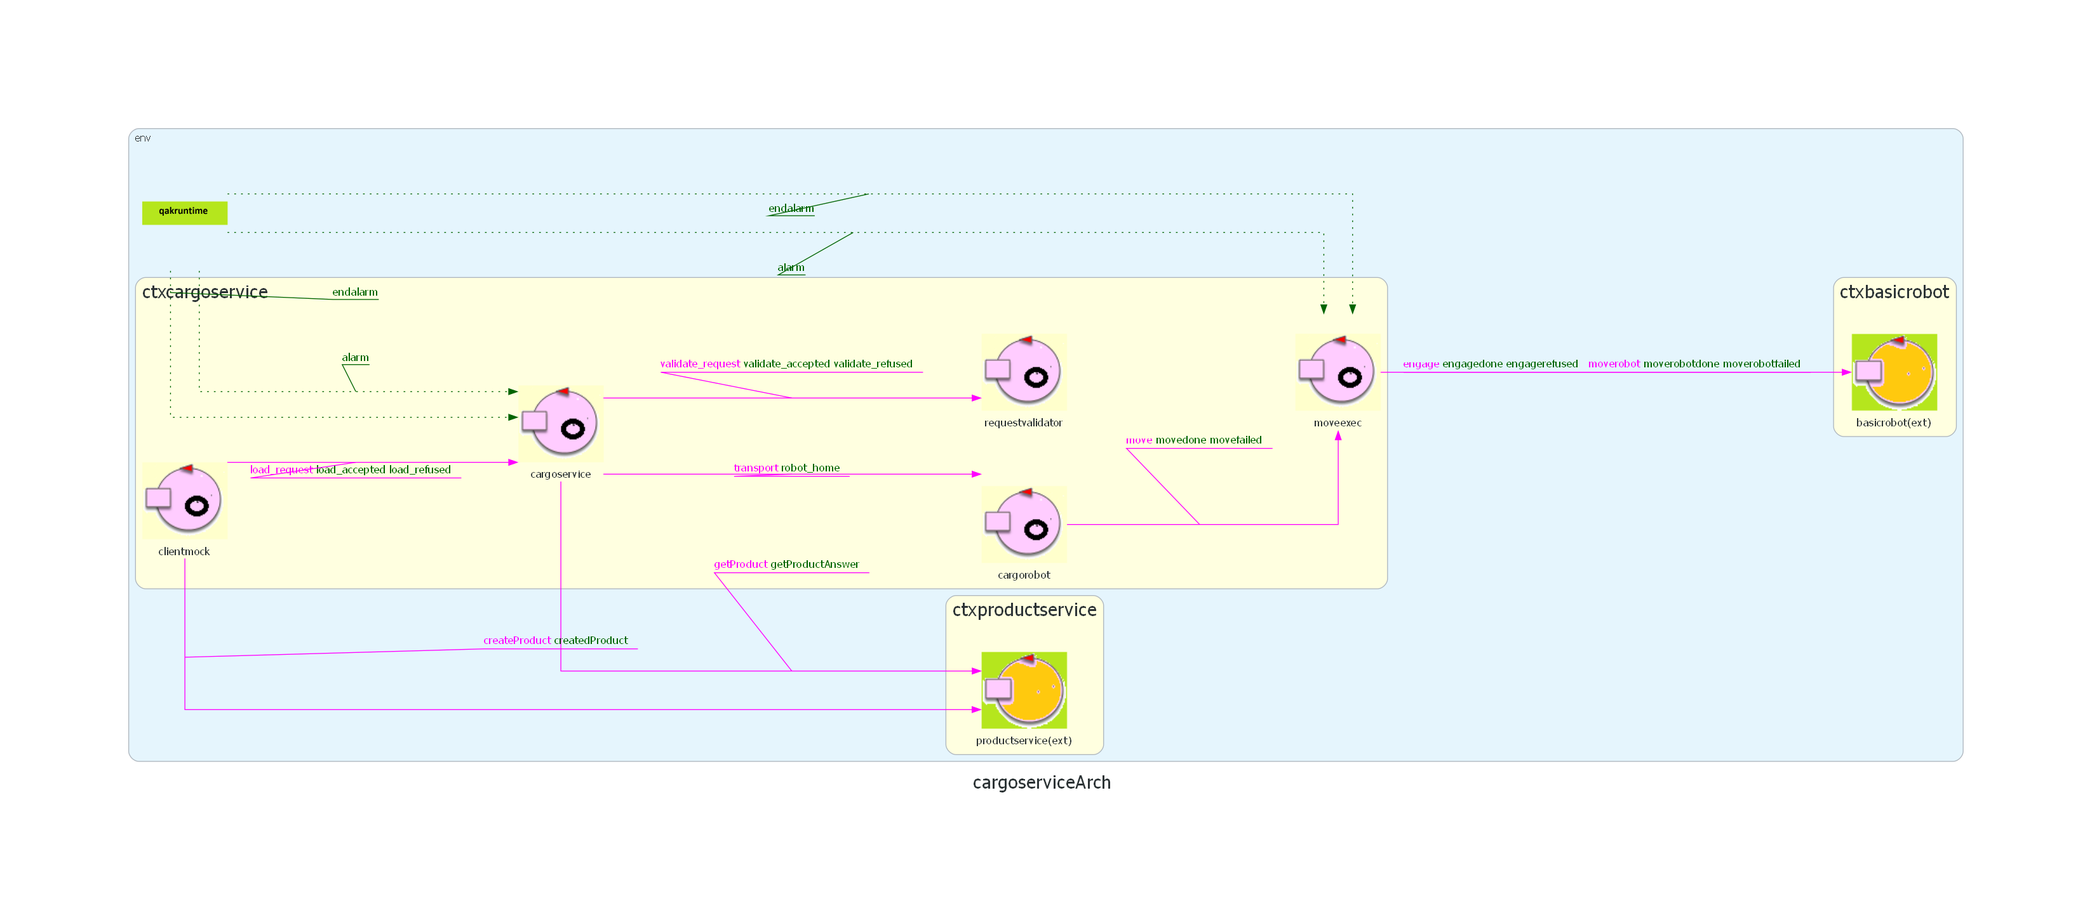
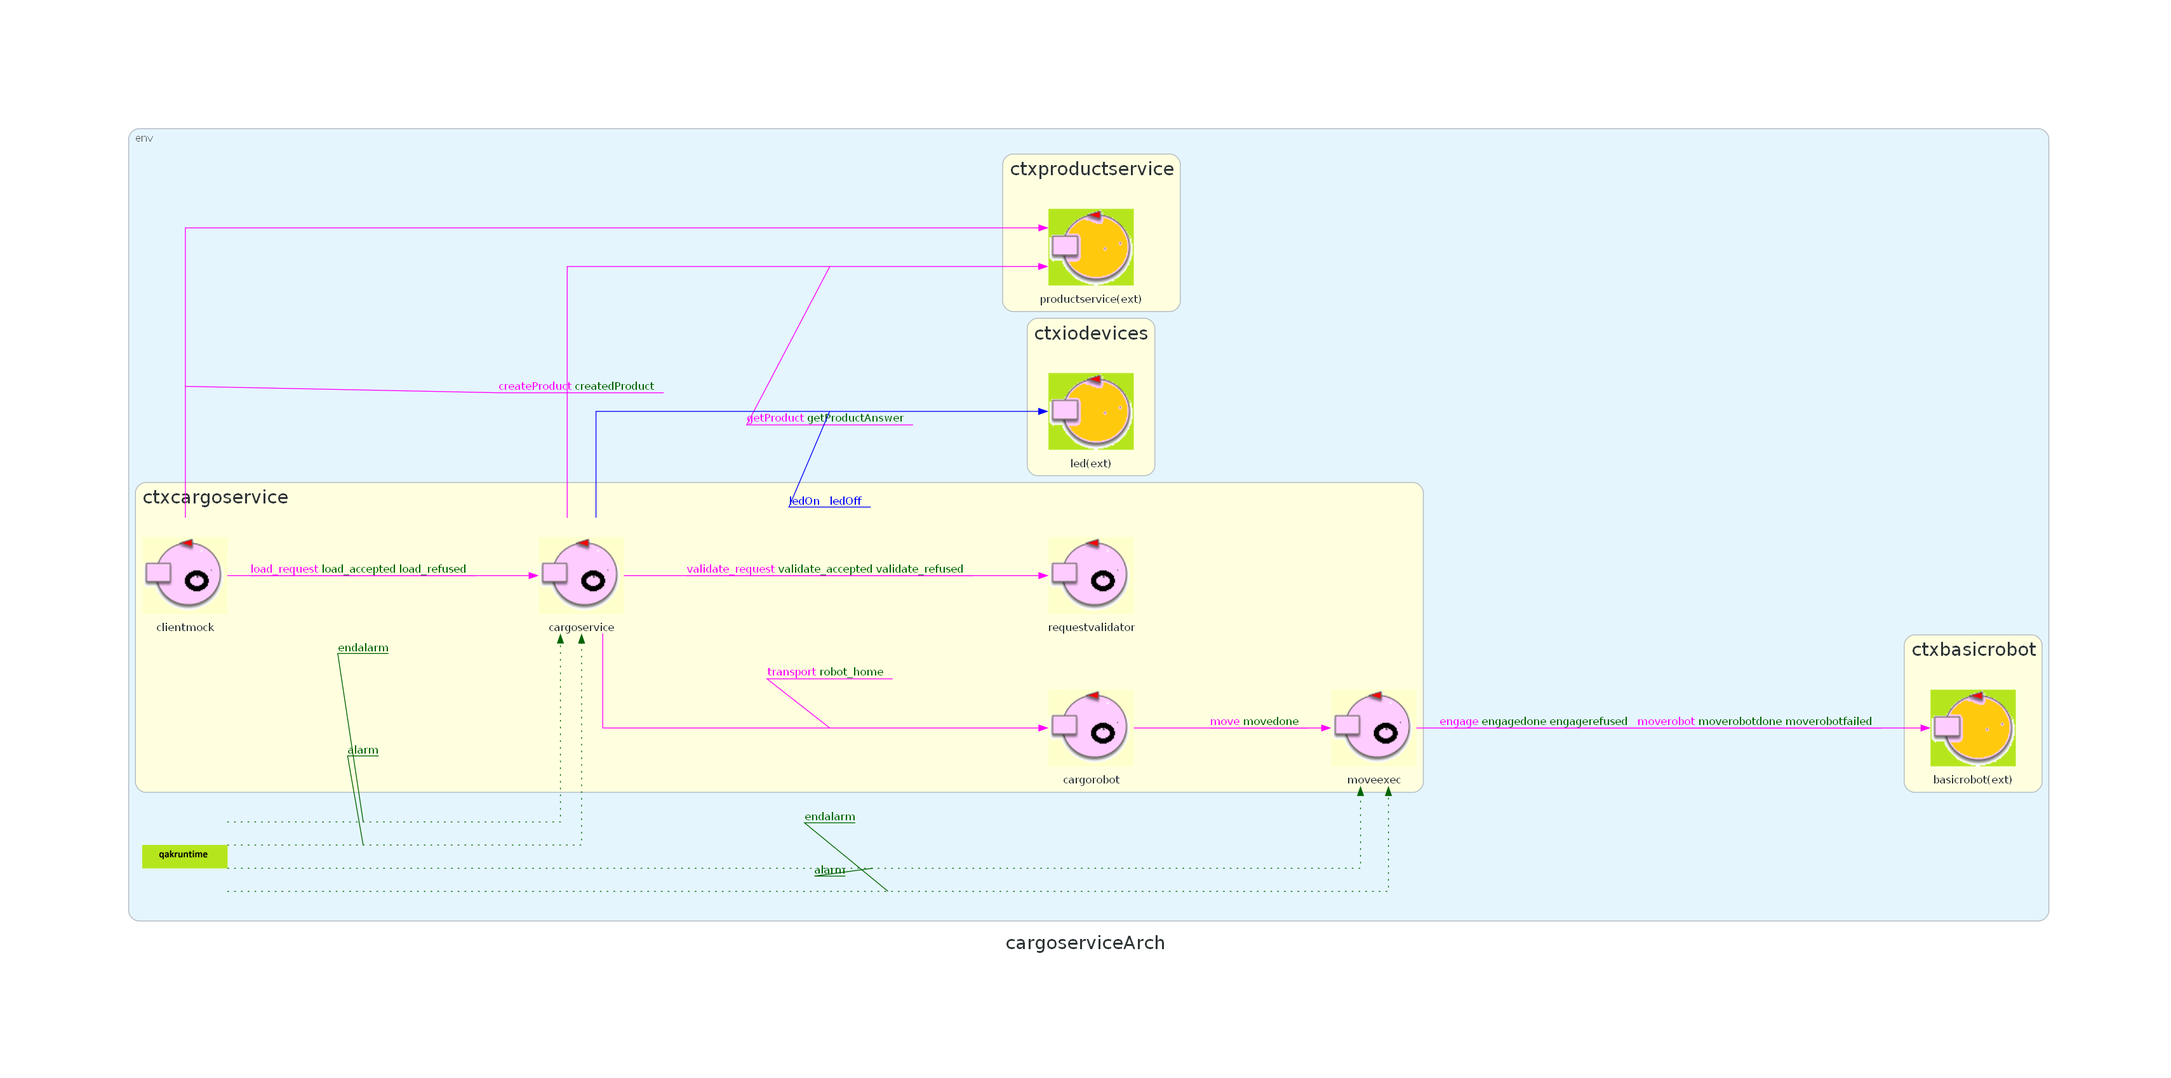
Aggiustato codice

diff --git a/sprint2/project/cargoservice/src/it/unibo/moveexec/Moveexec.kt b/sprint2/project/cargoservice/src/it/unibo/moveexec/Moveexec.kt
@@ -44,8 +44,8 @@ class Moveexec ( name: String, scope: CoroutineScope, isconfined: Boolean=false,
 					//After Lenzi Aug2002
 					sysaction { //it:State
 					}	 	 
-					 transition(edgeName="t036",targetState="waitRequest",cond=whenReply("engagedone"))
-					transition(edgeName="t037",targetState="engageerror",cond=whenReply("engagerefused"))
+					 transition(edgeName="t033",targetState="waitRequest",cond=whenReply("engagedone"))
+					transition(edgeName="t034",targetState="engageerror",cond=whenReply("engagerefused"))
 				}	 
 				state("engageerror") { //this:State
 					action { //it:State
@@ -66,8 +66,8 @@ class Moveexec ( name: String, scope: CoroutineScope, isconfined: Boolean=false,
 					//After Lenzi Aug2002
 					sysaction { //it:State
 					}	 	 
-					 transition(edgeName="t138",targetState="handlealarm",cond=whenEvent("alarm"))
-					transition(edgeName="t139",targetState="work",cond=whenRequest("move"))
+					 transition(edgeName="t135",targetState="handlealarm",cond=whenEvent("alarm"))
+					transition(edgeName="t136",targetState="work",cond=whenRequest("move"))
 				}	 
 				state("work") { //this:State
 					action { //it:State
@@ -84,9 +84,9 @@ class Moveexec ( name: String, scope: CoroutineScope, isconfined: Boolean=false,
 					//After Lenzi Aug2002
 					sysaction { //it:State
 					}	 	 
-					 transition(edgeName="t240",targetState="handlealarm",cond=whenEvent("alarm"))
-					transition(edgeName="t241",targetState="movedone",cond=whenReply("moverobotdone"))
-					transition(edgeName="t242",targetState="movefailed",cond=whenReply("moverobotfailed"))
+					 transition(edgeName="t237",targetState="handlealarm",cond=whenEvent("alarm"))
+					transition(edgeName="t238",targetState="movedone",cond=whenReply("moverobotdone"))
+					transition(edgeName="t239",targetState="movefailed",cond=whenReply("moverobotfailed"))
 				}	 
 				state("movedone") { //this:State
 					action { //it:State
@@ -114,9 +114,9 @@ class Moveexec ( name: String, scope: CoroutineScope, isconfined: Boolean=false,
 					//After Lenzi Aug2002
 					sysaction { //it:State
 					}	 	 
-					 transition(edgeName="t343",targetState="handlealarm",cond=whenEvent("alarm"))
-					transition(edgeName="t344",targetState="movedone",cond=whenReply("moverobotdone"))
-					transition(edgeName="t345",targetState="movefailed",cond=whenReply("moverobotfailed"))
+					 transition(edgeName="t340",targetState="handlealarm",cond=whenEvent("alarm"))
+					transition(edgeName="t341",targetState="movedone",cond=whenReply("moverobotdone"))
+					transition(edgeName="t342",targetState="movefailed",cond=whenReply("moverobotfailed"))
 				}	 
 				state("handlealarm") { //this:State
 					action { //it:State
@@ -126,7 +126,7 @@ class Moveexec ( name: String, scope: CoroutineScope, isconfined: Boolean=false,
 					//After Lenzi Aug2002
 					sysaction { //it:State
 					}	 	 
-					 transition(edgeName="t446",targetState="handleendalarm",cond=whenEvent("endalarm"))
+					 transition(edgeName="t443",targetState="handleendalarm",cond=whenEvent("endalarm"))
 				}	 
 				state("handleendalarm") { //this:State
 					action { //it:State
@@ -136,10 +136,10 @@ class Moveexec ( name: String, scope: CoroutineScope, isconfined: Boolean=false,
 					//After Lenzi Aug2002
 					sysaction { //it:State
 					}	 	 
-					 transition(edgeName="t547",targetState="handlealarm",cond=whenEvent("alarm"))
-					transition(edgeName="t548",targetState="work",cond=whenRequest("move"))
-					transition(edgeName="t549",targetState="movedone",cond=whenReply("moverobotdone"))
-					transition(edgeName="t550",targetState="movefailed",cond=whenReply("moverobotfailed"))
+					 transition(edgeName="t544",targetState="handlealarm",cond=whenEvent("alarm"))
+					transition(edgeName="t545",targetState="work",cond=whenRequest("move"))
+					transition(edgeName="t546",targetState="movedone",cond=whenReply("moverobotdone"))
+					transition(edgeName="t547",targetState="movefailed",cond=whenReply("moverobotfailed"))
 				}	 
 			}
 		}

diff --git a/sprint2/project/sonarled/src/it/unibo/led/Led.kt b/sprint2/project/sonarled/src/it/unibo/led/Led.kt
@@ -1,5 +1,5 @@
 /* Generated by AN DISI Unibo */ 
-package it.unibo.sonardevice
+package it.unibo.led
 
 import it.unibo.kactor.*
 import alice.tuprolog.*
@@ -20,7 +20,7 @@ import org.json.simple.JSONObject
 
 //User imports JAN2024
 
-class Sonardevice ( name: String, scope: CoroutineScope, isconfined: Boolean=false, isdynamic: Boolean=false ) : 
+class Led ( name: String, scope: CoroutineScope, isconfined: Boolean=false, isdynamic: Boolean=false ) : 
           ActorBasicFsm( name, scope, confined=isconfined, dynamically=isdynamic ){
 
 	override fun getInitialState() : String{
@@ -29,51 +29,40 @@ class Sonardevice ( name: String, scope: CoroutineScope, isconfined: Boolean=fal
 	override fun getBody() : (ActorBasicFsm.() -> Unit){
 		//val interruptedStateTransitions = mutableListOf<Transition>()
 		//IF actor.withobj !== null val actor.withobj.name» = actor.withobj.method»ENDIF
-		 
-			lateinit var reader : java.io.BufferedReader
-		    lateinit var p : Process	
-		    var Distance = 0
 		return { //this:ActionBasciFsm
 				state("s0") { //this:State
 					action { //it:State
-						CommUtils.outblack("$name | start")
-						
-									p       = Runtime.getRuntime().exec("python sonar.py")
-									reader  = java.io.BufferedReader(  java.io.InputStreamReader(p.getInputStream() ))	
 						//genTimer( actor, state )
 					}
 					//After Lenzi Aug2002
 					sysaction { //it:State
 					}	 	 
-					 transition( edgeName="goto",targetState="readSonarData", cond=doswitch() )
+					 transition(edgeName="t05",targetState="ledon",cond=whenDispatch("ledOn"))
+					transition(edgeName="t06",targetState="ledoff",cond=whenDispatch("ledOff"))
 				}	 
-				state("readSonarData") { //this:State
+				state("ledon") { //this:State
 					action { //it:State
-						 
-								var data = reader.readLine()
-								//CommUtils.outyellow("$name with python: data = $data"   ) 
-								if( data != null ){
-								try{ 
-									val vd = data.toFloat()
-									val v  = vd.toInt()
-									if( v <= 100 ){	//A first filter ...
-										Distance = v				
-									}else Distance = 0
-								}catch(e: Exception){
-									CommUtils.outred("$name readSonarDataERROR: $e "   )
-								}
-								}//if
-								
-						if(  Distance > 0  
-						 ){CommUtils.outyellow("$name with python: data = $data")
-						forward("sonardata", "distance($Distance)" ,"sonar" ) 
-						}
+						
+									CommUtils.outred("led | rilevata sonar failure")
+						            machineExec("python ledOn.py")
 						//genTimer( actor, state )
 					}
 					//After Lenzi Aug2002
 					sysaction { //it:State
 					}	 	 
-					 transition( edgeName="goto",targetState="readSonarData", cond=doswitch() )
+					 transition( edgeName="goto",targetState="s0", cond=doswitch() )
+				}	 
+				state("ledoff") { //this:State
+					action { //it:State
+						
+									CommUtils.outred("led | sonar failure terminata")
+						            machineExec("python ledOff.py")
+						//genTimer( actor, state )
+					}
+					//After Lenzi Aug2002
+					sysaction { //it:State
+					}	 	 
+					 transition( edgeName="goto",targetState="s0", cond=doswitch() )
 				}	 
 			}
 		}

diff --git a/sprint2/project/sonarled/src/it/unibo/sonar/Sonar.kt b/sprint2/project/sonarled/src/it/unibo/sonar/Sonar.kt
@@ -1,5 +1,5 @@
 /* Generated by AN DISI Unibo */ 
-package it.unibo.sonarled
+package it.unibo.sonar
 
 import it.unibo.kactor.*
 import alice.tuprolog.*
@@ -20,7 +20,7 @@ import org.json.simple.JSONObject
 
 //User imports JAN2024
 
-class Sonarled ( name: String, scope: CoroutineScope, isconfined: Boolean=false, isdynamic: Boolean=false ) : 
+class Sonar ( name: String, scope: CoroutineScope, isconfined: Boolean=false, isdynamic: Boolean=false ) : 
           ActorBasicFsm( name, scope, confined=isconfined, dynamically=isdynamic ){
 
 	override fun getInitialState() : String{
@@ -52,8 +52,7 @@ class Sonarled ( name: String, scope: CoroutineScope, isconfined: Boolean=false,
 								                if(D > DFREE){
 								                    counter++
 								                    if(counter >= 3) {
-								                    	CommUtils.outred("sonarled | rilevata sonar failure")
-								                    	machineExec("python ledOn.py")
+								                    	CommUtils.outred("sonar | rilevata sonar failure")
 								emit("alarm", "alarm(failure)" ) 
 								forward("sonar_failure", "sonar_failure(ok)" ,name ) 
 								
@@ -63,7 +62,7 @@ class Sonarled ( name: String, scope: CoroutineScope, isconfined: Boolean=false,
 								                    {
 								                    	counterIO++
 								                    	if(counterIO == 3) {
-									                    	CommUtils.outgreen("sonarled | rilevata presenza di un container all'IOPort")
+									                    	CommUtils.outgreen("sonar | rilevata presenza di un container all'IOPort")
 								forward("containerAtIOPort", "containerAtIOPort(ok)" ,"cargoservice" ) 
 								
 								                    	}
@@ -88,8 +87,7 @@ class Sonarled ( name: String, scope: CoroutineScope, isconfined: Boolean=false,
 								
 								                val D = payloadArg(0).toInt()
 								                if(D <= DFREE){
-								                	CommUtils.outred("sonarled | sonar failure terminata")
-								                	machineExec("python ledOff.py")
+								                	CommUtils.outred("sonar | sonar failure terminata")
 								                	counter = 0
 								                	
 								                	if(D < DFREE/2) {

diff --git a/sprint2/project/cargoservice/src/it/unibo/cargoservice/Cargoservice.kt b/sprint2/project/cargoservice/src/it/unibo/cargoservice/Cargoservice.kt
@@ -164,6 +164,7 @@ class Cargoservice ( name: String, scope: CoroutineScope, isconfined: Boolean=fa
 				}	 
 				state("handlealarm_load_request") { //this:State
 					action { //it:State
+						forward("ledOn", "ledOn(ok)" ,"led" ) 
 						CommUtils.outred("cargoservice | servizio interrotto")
 						//genTimer( actor, state )
 					}
@@ -174,6 +175,7 @@ class Cargoservice ( name: String, scope: CoroutineScope, isconfined: Boolean=fa
 				}	 
 				state("handleendalarm_load_request") { //this:State
 					action { //it:State
+						forward("ledOff", "ledOff(ok)" ,"led" ) 
 						CommUtils.outgreen("cargoservice | servizio ripristinato")
 						//genTimer( actor, state )
 					}
@@ -185,6 +187,7 @@ class Cargoservice ( name: String, scope: CoroutineScope, isconfined: Boolean=fa
 				}	 
 				state("handlealarm") { //this:State
 					action { //it:State
+						forward("ledOn", "ledOn(ok)" ,"led" ) 
 						CommUtils.outred("cargoservice | servizio interrotto")
 						//genTimer( actor, state )
 					}
@@ -195,6 +198,7 @@ class Cargoservice ( name: String, scope: CoroutineScope, isconfined: Boolean=fa
 				}	 
 				state("handleendalarm") { //this:State
 					action { //it:State
+						forward("ledOff", "ledOff(ok)" ,"led" ) 
 						CommUtils.outgreen("cargoservice | servizio ripristinato")
 						//genTimer( actor, state )
 					}
@@ -210,6 +214,7 @@ class Cargoservice ( name: String, scope: CoroutineScope, isconfined: Boolean=fa
 				}	 
 				state("handlealarm_ioport") { //this:State
 					action { //it:State
+						forward("ledOn", "ledOn(ok)" ,"led" ) 
 						CommUtils.outred("cargoservice | servizio interrotto")
 						//genTimer( actor, state )
 					}
@@ -220,6 +225,7 @@ class Cargoservice ( name: String, scope: CoroutineScope, isconfined: Boolean=fa
 				}	 
 				state("handleendalarm_ioport") { //this:State
 					action { //it:State
+						forward("ledOff", "ledOff(ok)" ,"led" ) 
 						CommUtils.outgreen("cargoservice | servizio ripristinato")
 						//genTimer( actor, state )
 					}

diff --git a/sprint2/project/cargoservice/src/it/unibo/cargorobot/Cargorobot.kt b/sprint2/project/cargoservice/src/it/unibo/cargorobot/Cargorobot.kt
@@ -76,7 +76,6 @@ class Cargorobot ( name: String, scope: CoroutineScope, isconfined: Boolean=fals
 					sysaction { //it:State
 					}	 	 
 					 transition(edgeName="t130",targetState="go_slot",cond=whenReply("movedone"))
-					transition(edgeName="t131",targetState="go_ioport",cond=whenReply("movefailed"))
 				}	 
 				state("go_slot") { //this:State
 					action { //it:State
@@ -92,8 +91,7 @@ class Cargorobot ( name: String, scope: CoroutineScope, isconfined: Boolean=fals
 					//After Lenzi Aug2002
 					sysaction { //it:State
 					}	 	 
-					 transition(edgeName="t232",targetState="go_home",cond=whenReply("movedone"))
-					transition(edgeName="t233",targetState="go_slot",cond=whenReply("movefailed"))
+					 transition(edgeName="t231",targetState="go_home",cond=whenReply("movedone"))
 				}	 
 				state("go_home") { //this:State
 					action { //it:State
@@ -109,8 +107,7 @@ class Cargorobot ( name: String, scope: CoroutineScope, isconfined: Boolean=fals
 					//After Lenzi Aug2002
 					sysaction { //it:State
 					}	 	 
-					 transition(edgeName="t334",targetState="robotAtHome",cond=whenReply("movedone"))
-					transition(edgeName="t335",targetState="go_home",cond=whenReply("movefailed"))
+					 transition(edgeName="t332",targetState="robotAtHome",cond=whenReply("movedone"))
 				}	 
 				state("robotAtHome") { //this:State
 					action { //it:State

diff --git a/sprint2/docs/html/Sprint2_v1.html b/sprint2/docs/html/Sprint2_v1.html
@@ -116,7 +116,7 @@
                 Abbiamo scelto il secondo approccio, introducendo l’attore <strong>moveexec</strong>.
                 Questo ci consente di mantenere cargorobot focalizzato sulla gestione del processo di carico,
                 realizzando la logica di movimento e la gestione delle situazioni di errore all'interno di un componente
-                dedicato. In questo modo è possibile offrire maggiore chiarezza, manutenibilità e possibilità di riuso,
+                dedicato. In questo modo è possibile offrire maggiore chiarezza, manutenibilità e estendibilità,
                 a fronte però di una maggiore complessità architetturale.
                 <br>
                 Il compito, quindi, dell'attore cargorobot è quello di ottenere le coordinate relative alla Unload

diff --git a/sprint2/project/cargoservice/src/it/unibo/ctxiodevices/MainCtxiodevices.kt b/sprint2/project/cargoservice/src/it/unibo/ctxiodevices/MainCtxiodevices.kt
@@ -1,0 +1,15 @@
+/* Generated by AN DISI Unibo */ 
+package it.unibo.ctxiodevices
+import it.unibo.kactor.QakContext
+import it.unibo.kactor.sysUtil
+import kotlinx.coroutines.runBlocking
+
+fun main() = runBlocking {
+	//System.setProperty(org.slf4j.impl.SimpleLogger.DEFAULT_LOG_LEVEL_KEY, "ERROR");
+	QakContext.createContexts(
+	        "localhost", this, "cargoservice.pl", "sysRules.pl", "ctxiodevices"
+	)
+	//JAN Facade
+	//JAN24 Display
+}
+

diff --git a/sprint2/project/cargoservice/Arch_cargoservice.py b/sprint2/project/cargoservice/Arch_cargoservice.py
@@ -35,15 +35,18 @@ with Diagram('cargoserviceArch', show=False, outformat='png', graph_attr=graphat
           basicrobot=Custom('basicrobot(ext)','./qakicons/externalQActor.png')
      with Cluster('ctxproductservice', graph_attr=nodeattr):
           productservice=Custom('productservice(ext)','./qakicons/externalQActor.png')
+     with Cluster('ctxiodevices', graph_attr=nodeattr):
+          led=Custom('led(ext)','./qakicons/externalQActor.png')
      sys >> Edge( label='alarm', **evattr, decorate='true', fontcolor='darkgreen') >> cargoservice
      sys >> Edge( label='endalarm', **evattr, decorate='true', fontcolor='darkgreen') >> cargoservice
      sys >> Edge( label='alarm', **evattr, decorate='true', fontcolor='darkgreen') >> moveexec
      sys >> Edge( label='endalarm', **evattr, decorate='true', fontcolor='darkgreen') >> moveexec
      moveexec >> Edge(color='magenta', style='solid', decorate='true', label='<engage<font color="darkgreen"> engagedone engagerefused</font> &nbsp; moverobot<font color="darkgreen"> moverobotdone moverobotfailed</font> &nbsp; >',  fontcolor='magenta') >> basicrobot
-     cargorobot >> Edge(color='magenta', style='solid', decorate='true', label='<move<font color="darkgreen"> movedone movefailed</font> &nbsp; >',  fontcolor='magenta') >> moveexec
+     cargorobot >> Edge(color='magenta', style='solid', decorate='true', label='<move<font color="darkgreen"> movedone</font> &nbsp; >',  fontcolor='magenta') >> moveexec
      cargoservice >> Edge(color='magenta', style='solid', decorate='true', label='<validate_request<font color="darkgreen"> validate_accepted validate_refused</font> &nbsp; >',  fontcolor='magenta') >> requestvalidator
      clientmock >> Edge(color='magenta', style='solid', decorate='true', label='<createProduct<font color="darkgreen"> createdProduct</font> &nbsp; >',  fontcolor='magenta') >> productservice
      clientmock >> Edge(color='magenta', style='solid', decorate='true', label='<load_request<font color="darkgreen"> load_accepted load_refused</font> &nbsp; >',  fontcolor='magenta') >> cargoservice
      cargoservice >> Edge(color='magenta', style='solid', decorate='true', label='<getProduct<font color="darkgreen"> getProductAnswer</font> &nbsp; >',  fontcolor='magenta') >> productservice
      cargoservice >> Edge(color='magenta', style='solid', decorate='true', label='<transport<font color="darkgreen"> robot_home</font> &nbsp; >',  fontcolor='magenta') >> cargorobot
+     cargoservice >> Edge(color='blue', style='solid',  decorate='true', label='<ledOn &nbsp; ledOff &nbsp; >',  fontcolor='blue') >> led
 diag

diff --git a/sprint0/project/cargosystem/Arch_cargosystem.py b/sprint0/project/cargosystem/Arch_cargosystem.py
@@ -25,17 +25,17 @@ with Diagram('cargosystemArch', show=False, outformat='png', graph_attr=graphatt
   with Cluster('env'):
      sys = Custom('','./qakicons/system.png')
 ### see https://renenyffenegger.ch/notes/tools/Graphviz/attributes/label/HTML-like/index
-     with Cluster('ctxcargoserviceclients', graph_attr=nodeattr):
+     with Cluster('ctx_cargoservice_clients', graph_attr=nodeattr):
           client=Custom('client','./qakicons/symActorWithobjSmall.png')
-     with Cluster('ctxcargoservice', graph_attr=nodeattr):
+     with Cluster('ctx_cargoservice', graph_attr=nodeattr):
           cargoservice=Custom('cargoservice','./qakicons/symActorWithobjSmall.png')
           cargorobot=Custom('cargorobot','./qakicons/symActorWithobjSmall.png')
           webgui_mock=Custom('webgui_mock','./qakicons/symActorWithobjSmall.png')
-     with Cluster('ctxproductservice', graph_attr=nodeattr):
+     with Cluster('ctx_productservice', graph_attr=nodeattr):
           productservice=Custom('productservice','./qakicons/symActorWithobjSmall.png')
-     with Cluster('ctxbasicrobot', graph_attr=nodeattr):
+     with Cluster('ctx_basicrobot', graph_attr=nodeattr):
           basicrobot=Custom('basicrobot','./qakicons/symActorWithobjSmall.png')
-     with Cluster('ctxiodevices', graph_attr=nodeattr):
+     with Cluster('ctx_iodevices', graph_attr=nodeattr):
           sonar=Custom('sonar','./qakicons/symActorWithobjSmall.png')
           led=Custom('led','./qakicons/symActorWithobjSmall.png')
      client >> Edge(color='magenta', style='solid', decorate='true', label='<load_request<font color="darkgreen"> load_accepted load_refused</font> &nbsp; >',  fontcolor='magenta') >> cargoservice

diff --git a/sprint2/project/sonarled/Arch_sonarled.py b/sprint2/project/sonarled/Arch_sonarled.py
@@ -26,12 +26,13 @@ with Diagram('sonarledArch', show=False, outformat='png', graph_attr=graphattr) 
      sys = Custom('','./qakicons/system.png')
 ### see https://renenyffenegger.ch/notes/tools/Graphviz/attributes/label/HTML-like/index
      with Cluster('ctxiodevices', graph_attr=nodeattr):
-          sonarled=Custom('sonarled','./qakicons/symActorWithobjSmall.png')
+          sonar=Custom('sonar','./qakicons/symActorWithobjSmall.png')
+          led=Custom('led','./qakicons/symActorWithobjSmall.png')
           sonardevice=Custom('sonardevice','./qakicons/symActorWithobjSmall.png')
      with Cluster('ctxcargoservice', graph_attr=nodeattr):
           cargoservice=Custom('cargoservice(ext)','./qakicons/externalQActor.png')
-     sonarled >> Edge( label='alarm', **eventedgeattr, decorate='true', fontcolor='red') >> sys
-     sonarled >> Edge( label='endalarm', **eventedgeattr, decorate='true', fontcolor='red') >> sys
-     sonarled >> Edge(color='blue', style='solid',  decorate='true', label='<containerAtIOPort &nbsp; >',  fontcolor='blue') >> cargoservice
-     sonardevice >> Edge(color='blue', style='solid',  decorate='true', label='<sonardata &nbsp; >',  fontcolor='blue') >> sonarled
+     sonar >> Edge( label='alarm', **eventedgeattr, decorate='true', fontcolor='red') >> sys
+     sonar >> Edge( label='endalarm', **eventedgeattr, decorate='true', fontcolor='red') >> sys
+     sonar >> Edge(color='blue', style='solid',  decorate='true', label='<containerAtIOPort &nbsp; >',  fontcolor='blue') >> cargoservice
+     sonardevice >> Edge(color='blue', style='solid',  decorate='true', label='<sonardata &nbsp; >',  fontcolor='blue') >> sonar
 diag
